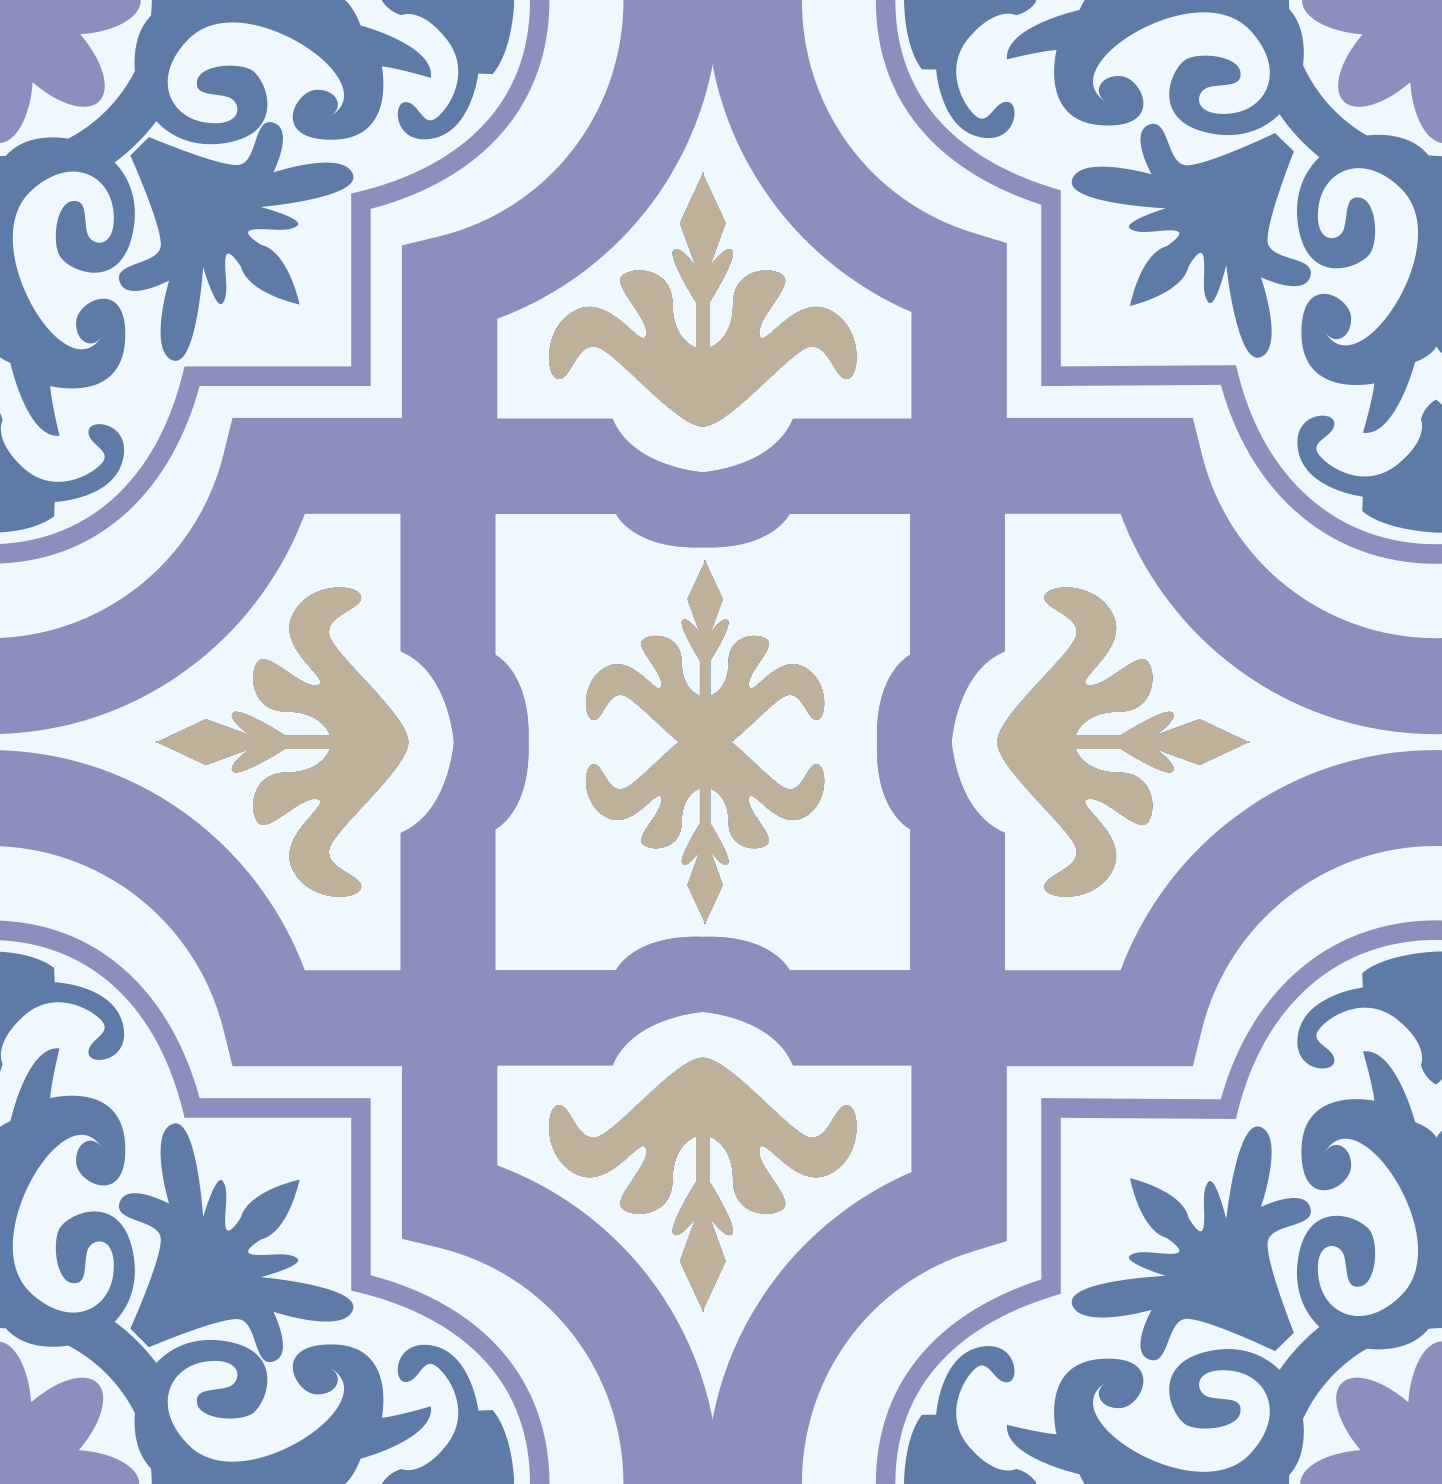
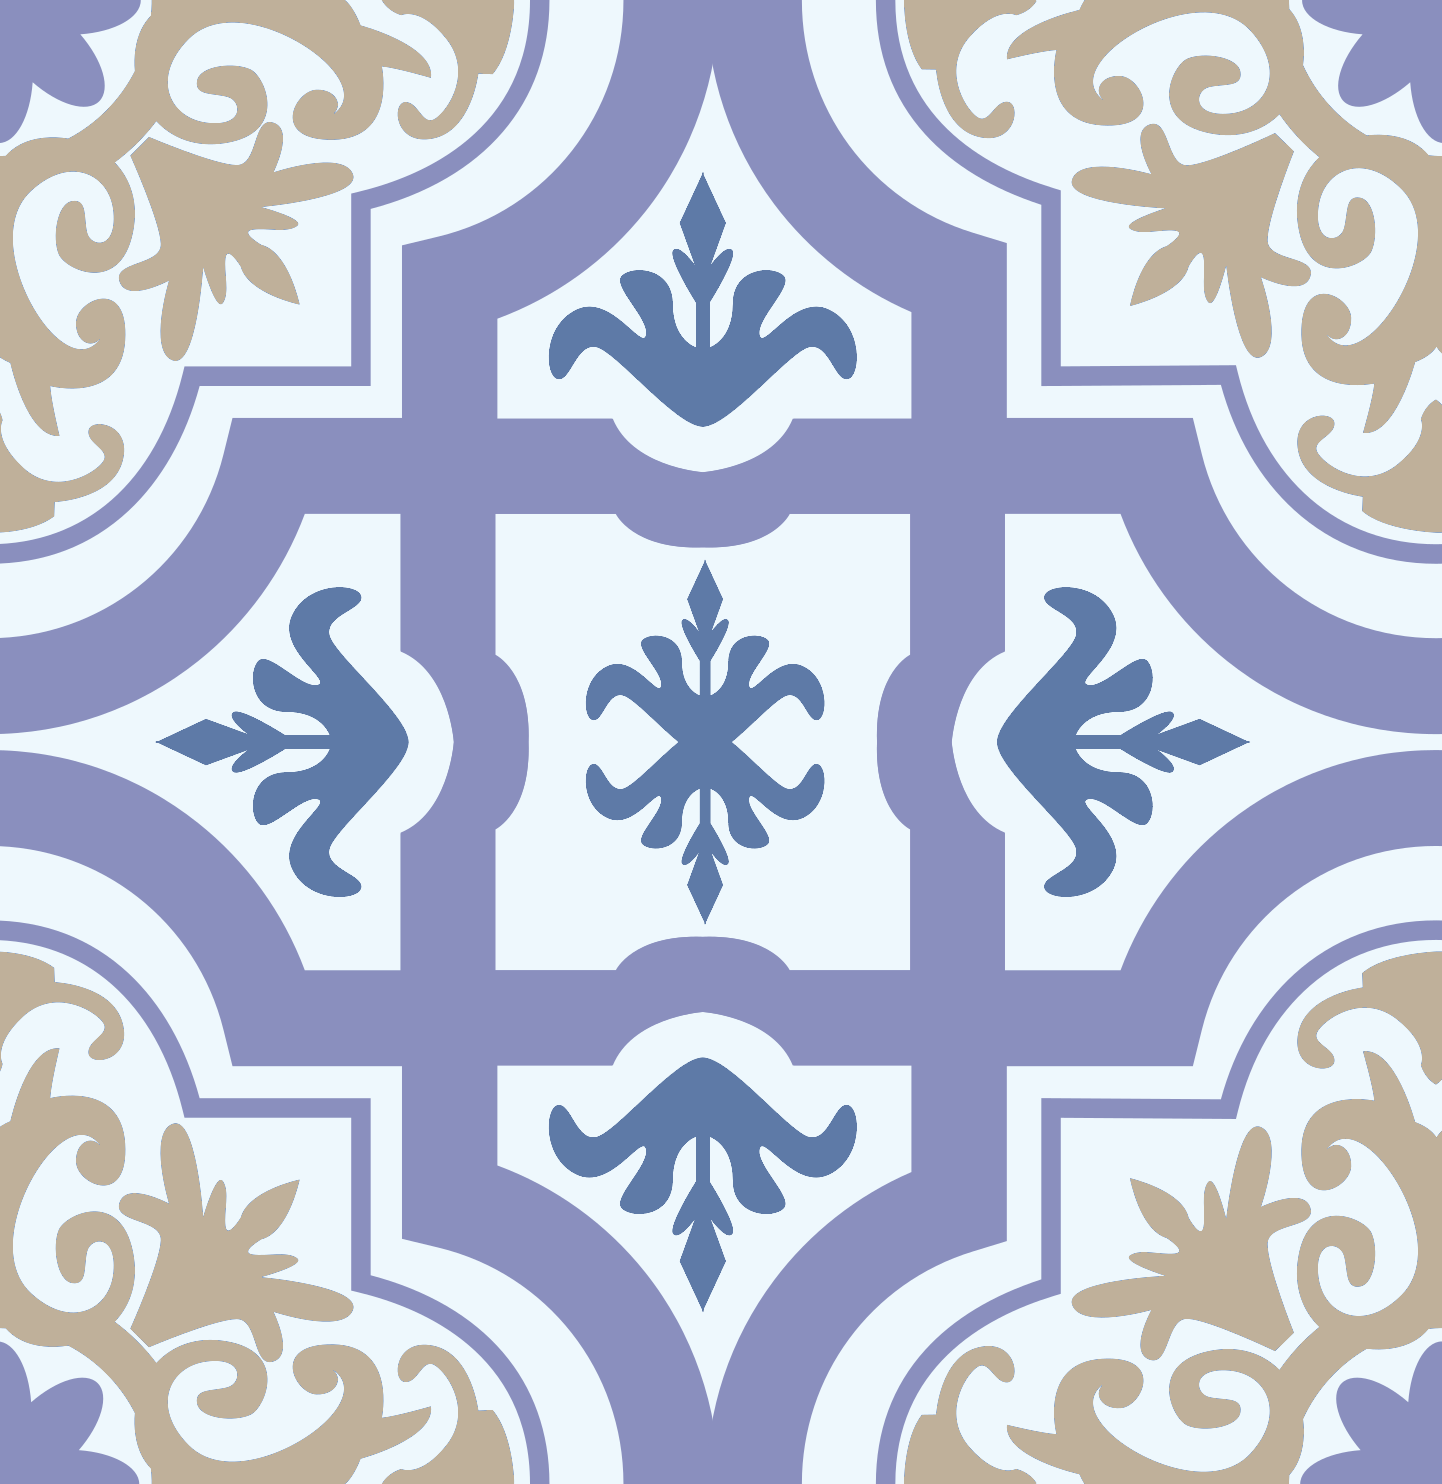
Edited tile, and added so to footer

diff --git a/index.html b/index.html
@@ -203,7 +203,7 @@
             <br>
             <p>To suggest an item to add, please email me at aharonzarnighian@gmail.com</p>            
             <br>
-            <a href="https://www.vecteezy.com/free-vector/spanish-tile" target="_blank" rel="noopener noreferrer">Spanish Tile Vectors by Vecteezy</a>
+            <a href="https://www.vecteezy.com/free-vector/spanish-tile" target="_blank" rel="noopener noreferrer">Spanish Tile Vectors by Vecteezy</a><span>, </span><a href="https://pixlr.com/" target="_blank" rel="noopener noreferrer">edited with Pixlr</a>            
         </footer>        
     </div>
   </body>
